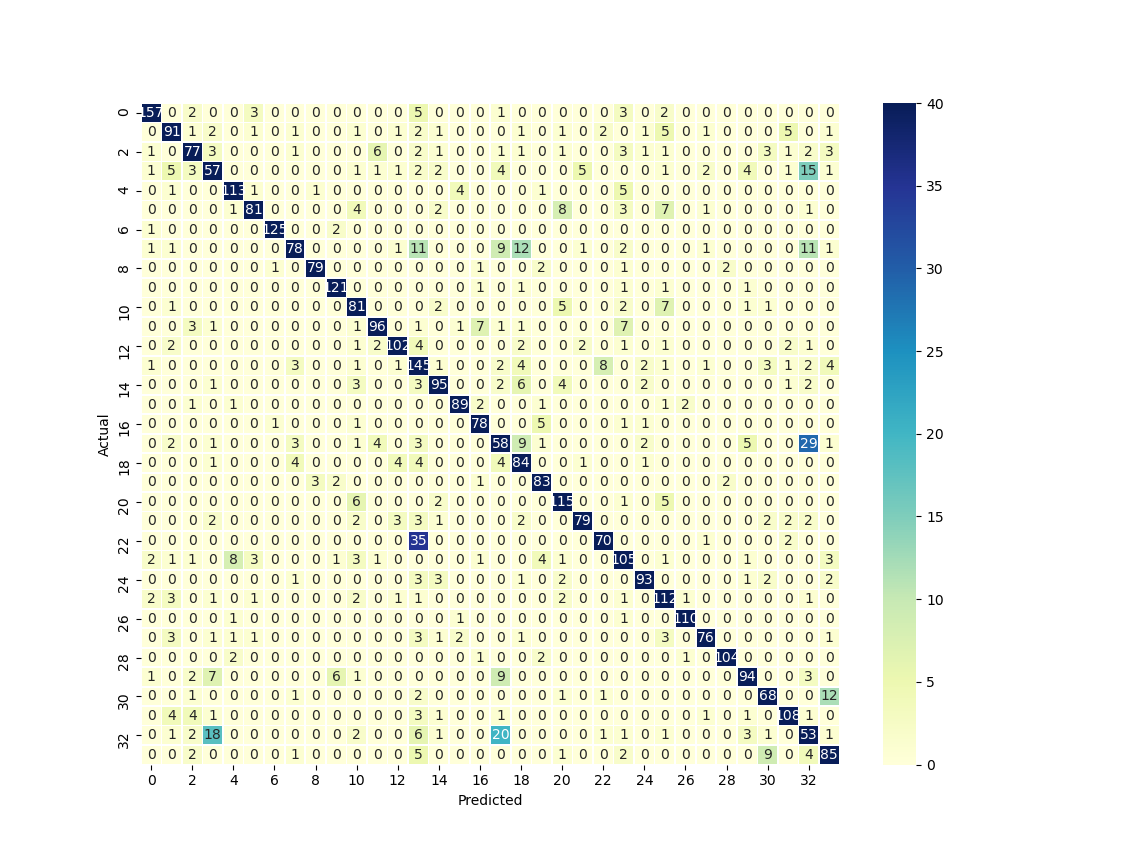
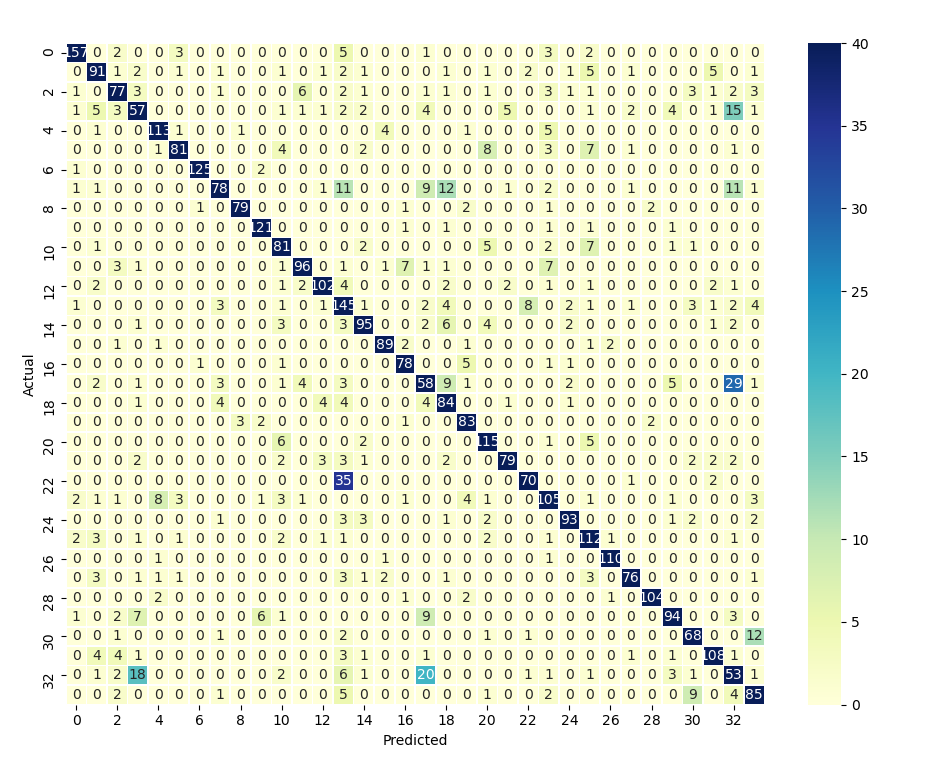
readme

diff --git a/README.md b/README.md
@@ -2,13 +2,13 @@
 
 ## Introduction
 
-Recognizing various forms of land use via satellite imaging is an important means of measuring urban spread and human development. Using Tensorflow Keras, this project will use satellite images of urban and sub-urban settings to classify land use (e.g. freeway, agriculture, forest, etc.). 
+Recognizing various forms of land use via satellite imaging is an important means of measuring urban spread and human development. Using Tensorflow Keras, this project will use satellite images of urban, sub-urban, and natural settings to classify land use (e.g. freeway, agriculture, forest, etc.). 
 
-The ultimate goal of this project is to take high-definition satellite images of whole cities and accurately generate statistics on land use.
+The ultimate goal of this project is to take high-definition orthoimagery and accurately generate statistics on land use.
 
 ## How to Run
 
-First, use pip to install the necessary dependencies. Anaconda is recommended; dependencies can be found under *files/dependencies.txt*
+First, use pip to install the necessary dependencies. Anaconda is recommended. Dependencies can be found under *files/dependencies.txt*
 
     pip install opencv-python tqdm numpy tensorflow keras matplotlib pandas seaborn
 
@@ -154,7 +154,7 @@ The next step for model training is to implement Google's Inception V3 network, 
 
 ### Limitations and Error
 
-![Confusion Matrix for VGG19 Model](https://github.com/espidev/tensorflow-ml-project/tree/master/files/confusion_matrix.png "Confusion Matrix for VGG19 Model")
+![VGG19 Confusion Matrix](files/confusion_matrix.png)
 
 In order of most to least mismatches:
 
@@ -167,18 +167,24 @@ In order of most to least mismatches:
 
 **and vice versa*
 
-The confusion between dense residential, medium residential, powerstations, and industrial are pretty self-explanatory: they all look the same, even to a human. We hypothesize that medium residential was often confused with tenniscourts and tenniscourts with basketball courts due to court lines being confused with streets. A CapsNet or Inception model may be better at identifying the finer differences between the two compared to VGG, especially with its heavy maxpooling. Most other confusions can be explained by exceedingly similar characteristics. 
+The confusion between dense residential, medium residential, powerstations, and industrial is pretty self-explanatory: they all look the same, even to a human. We believe that medium residential was often confused with tennis courts and tennis courts with basketball courts due to the shared feature of "curved white lines." A CapsNet or Inception model may be better at identifying the finer differences between the two compared to VGG, especially with its heavy maxpooling. Most other confusions can be explained by exceedingly similar characteristics. 
 
-The greatest limitation is in scale and resolution. Currently, each pixel represents one square foot (0.3x0.3 meters) of space, however not all satellite images use this. Other satellite bands and sensors measure different wavelengths and have significantly varied input. It is beyond the scope of this project to incorporate these features.
+The greatest limitation is in scale and resolution. Currently, each pixel represents one square foot (0.3x0.3 meters) of space, however not all satellite images use this. Other satellite bands and sensors measure different wavelengths of light and have significantly varied input. It is beyond the scope of this project to incorporate these features, but there are obvious features to be found in different satellite spectral images. High-resolution orthoimagery involves only heavily "cleaned-up" data:
+
+*An orthoimage is a uniform-scale image where corrections have been made for feature displacement such as building tilt and for scale variations caused by terrain relief, sensor geometry, and camera tilt. A mathematical equation based on ground control points, sensor calibration information, and a digital elevation model is applied to each pixel to rectify the image to obtain the geometric qualities of a map.* (USGS EROS Archive)
 
 ### Disclaimer
 
-This project was intended as an introduction to machine learning constructed by high school students; it is far from scientifically rigourous. Please use these models or files as sample code, but the inaccuracies are still quite high. 
+This project was intended as an introduction to machine learning constructed by high school students; it is far from scientifically rigorous. Please use these models or files as sample code, but the inaccuracies are still quite high. 
 
 Project by: Kevin Tong and Devin Lin
+
+Last Updated May 2020. 
 
 ### References
 
 Marcello, J. (2019). Very High Resolution (Vhr) Satellite Imagery. (F. Eugenio, Ed.). S.l.: MDPI AG.
+
+USGS EROS Archive - Aerial Photography - High Resolution Orthoimagery (HRO). (n.d.). Retrieved May 8, 2020, from https://www.usgs.gov/centers/eros/science/usgs-eros-archive-aerial-photography-high-resolution-orthoimagery-hro
 
 Special thanks to Ke Deng for his help and support.
